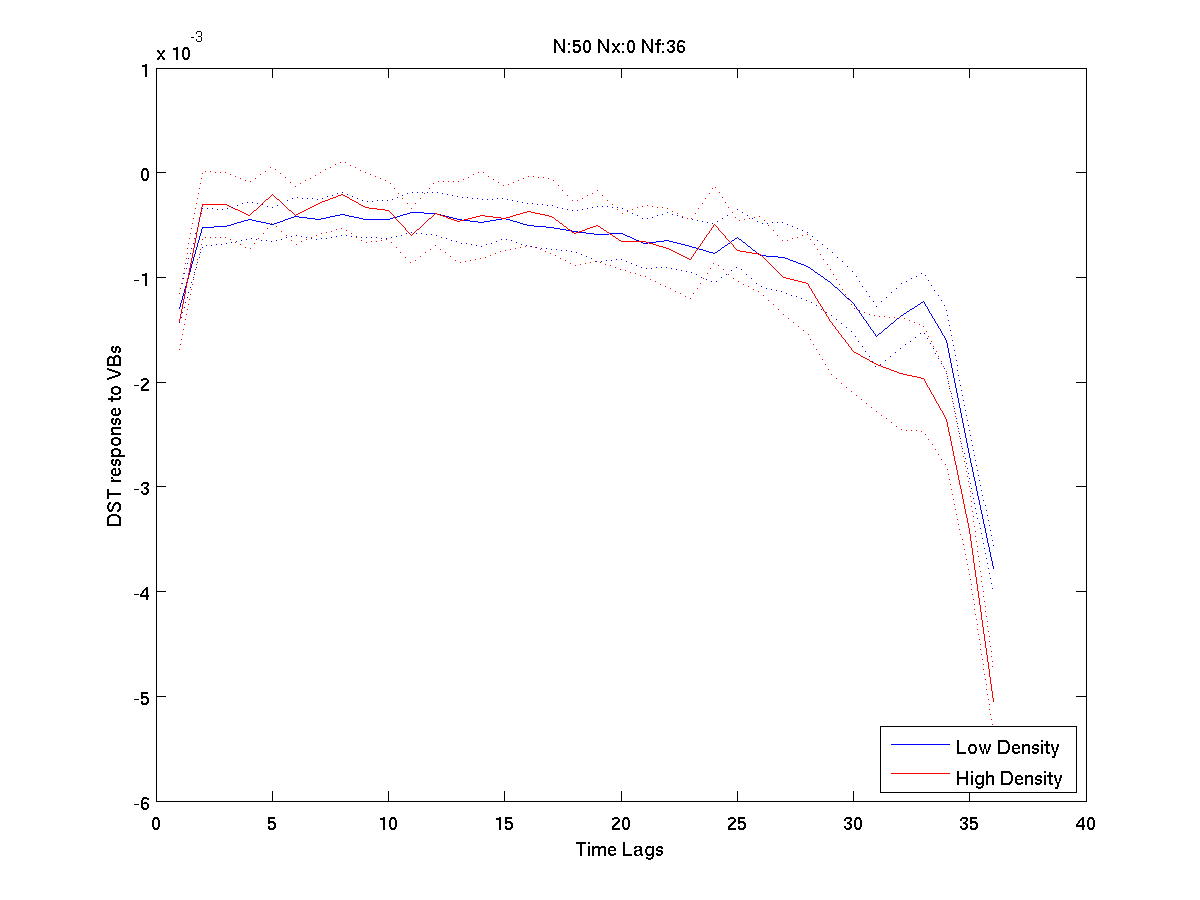
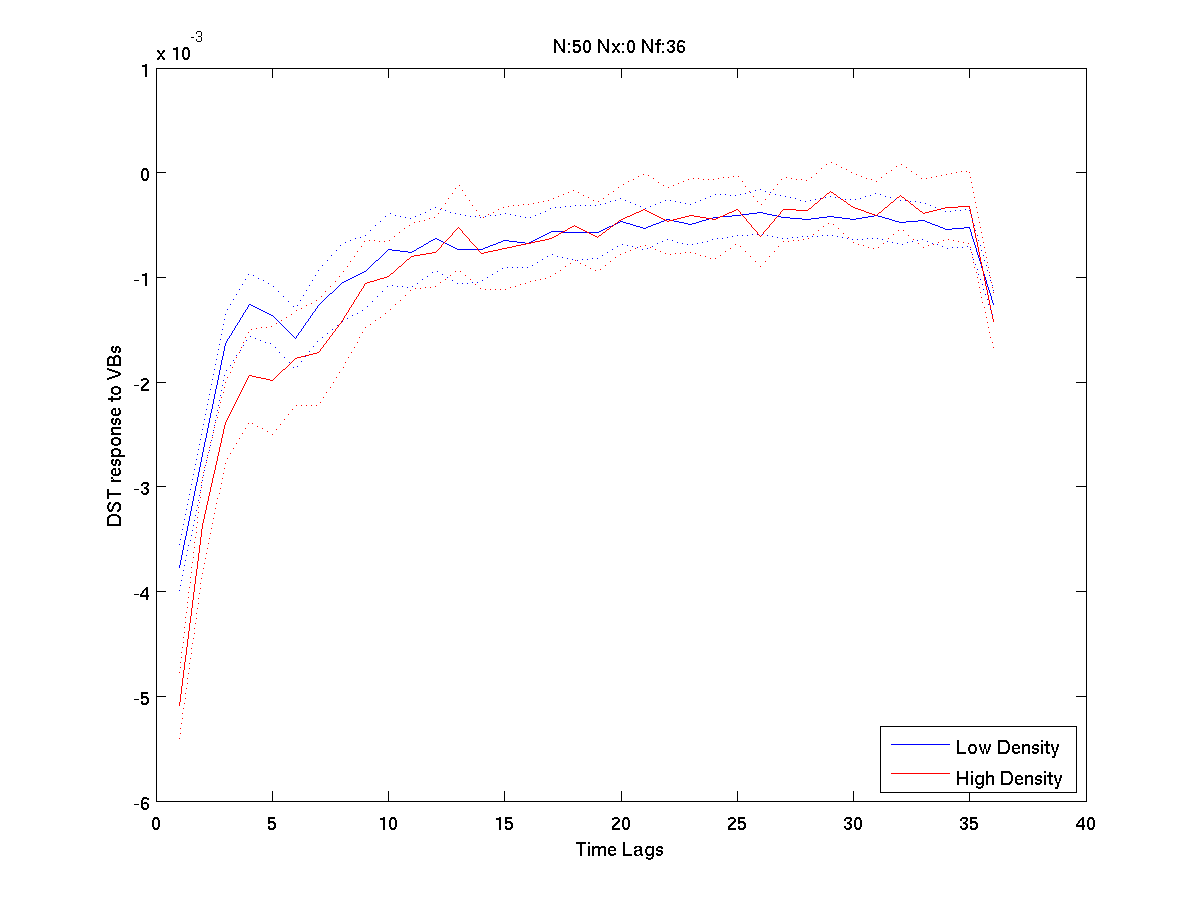
Some changes

Changed region(s): [[0.4317, 0.2489, 0.555, 0.28]]

diff --git a/Weigel2010.m b/Weigel2010.m
@@ -13,12 +13,12 @@ Na=0;
 Nb=36;
 
 
-[xnew,xnew2,corr,corr2,ca,ca2,cb,cb2,cc,cc2,casd,ca2sd,cbsd,cb2sd]=IRsortboot(Dst_index,VBS,Ion_density,Na,Nb);
+[xnew,xnew2,corr,corr2,ca,ca2,cb,cb2,cc,cc2,casd,ca2sd,cbsd,cb2sd]=IRsortboot(Dst_index,VBS,Ion_density,N,Na,Nb);
 
 
-figure; plot(flipud(cb)); hold on; plot(flipud(cb2),'r'); legend('Low Density','High Density','Location','SouthEast')
-plot(cb+2*cbsd,'b:');plot(cb-2*cbsd,'b:');
-plot(cb2+2*cb2sd,'r:');plot(cb2-2*cb2sd,'r:');
+figure; plot(fliplr(cb)); hold on; plot(fliplr(cb2),'r'); legend('Low Density','High Density','Location','SouthEast')
+plot(fliplr(cb+2*cbsd),'b:');plot(fliplr(cb-2*cbsd),'b:');
+plot(fliplr(cb2+2*cb2sd),'r:');plot(fliplr(cb2-2*cb2sd),'r:');
 ylabel('DST response to VBs')
 xlabel('Time Lags')
 title(sprintf('N:%d Nx:%d Nf:%d',N,Na,Nb))
